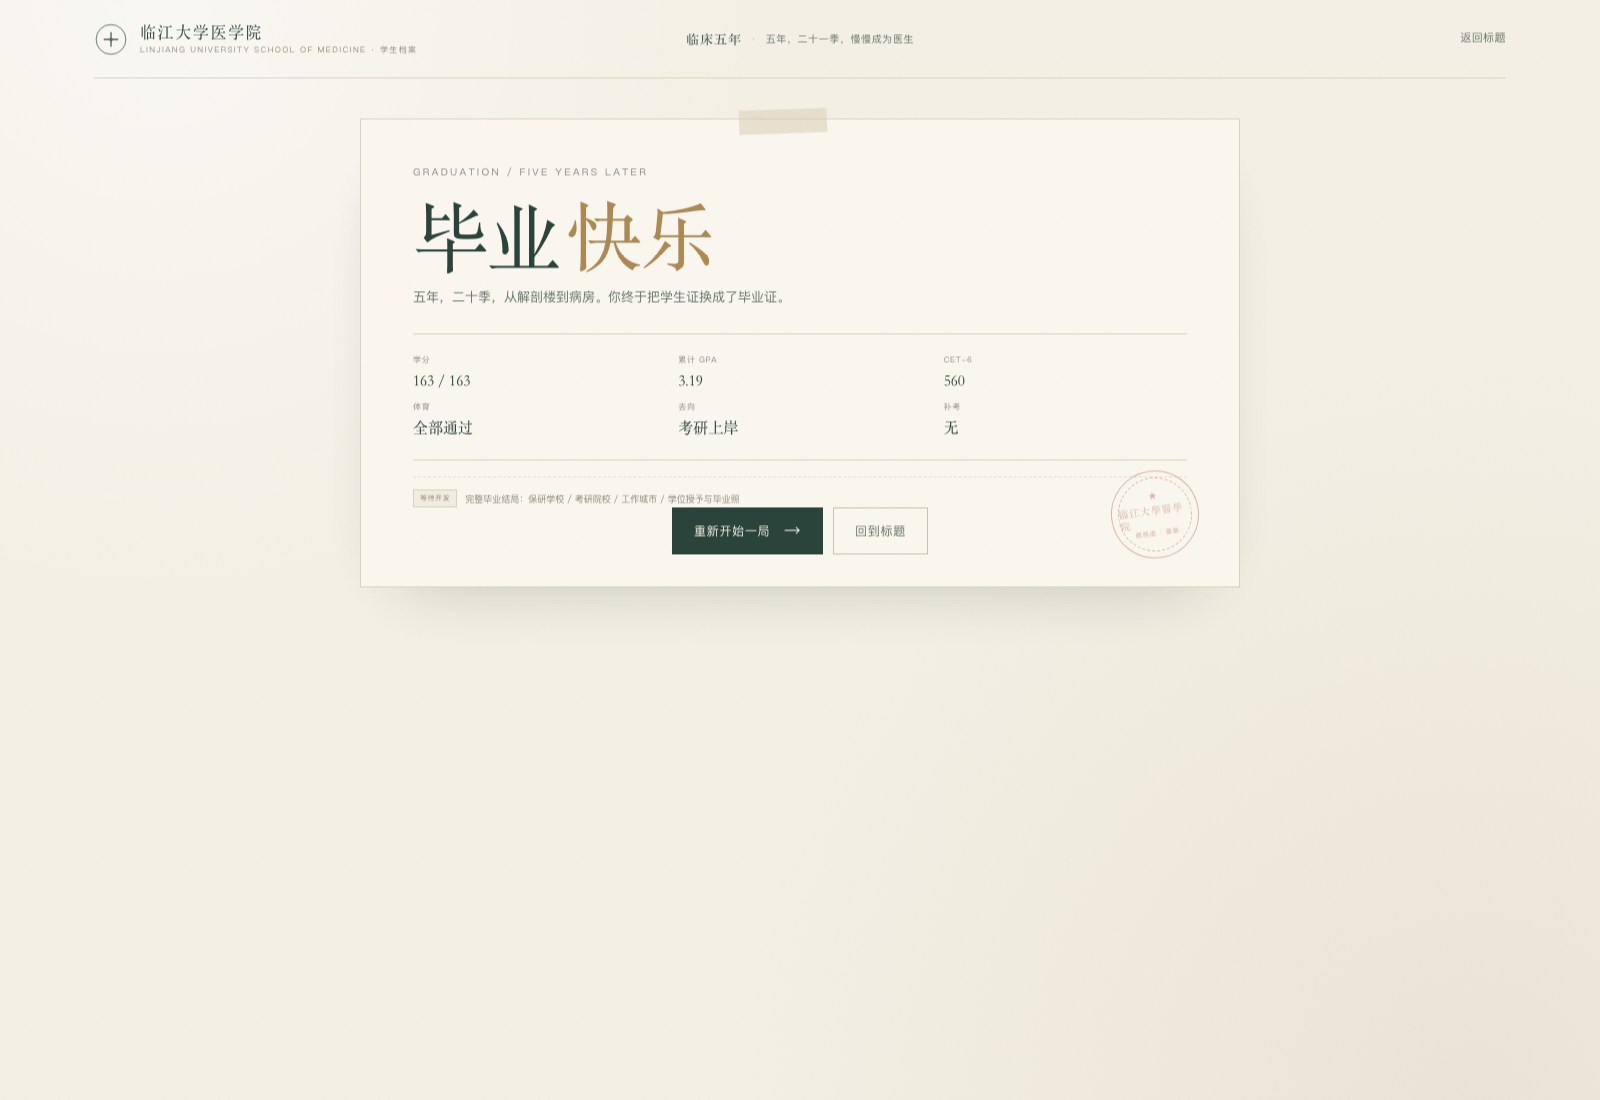
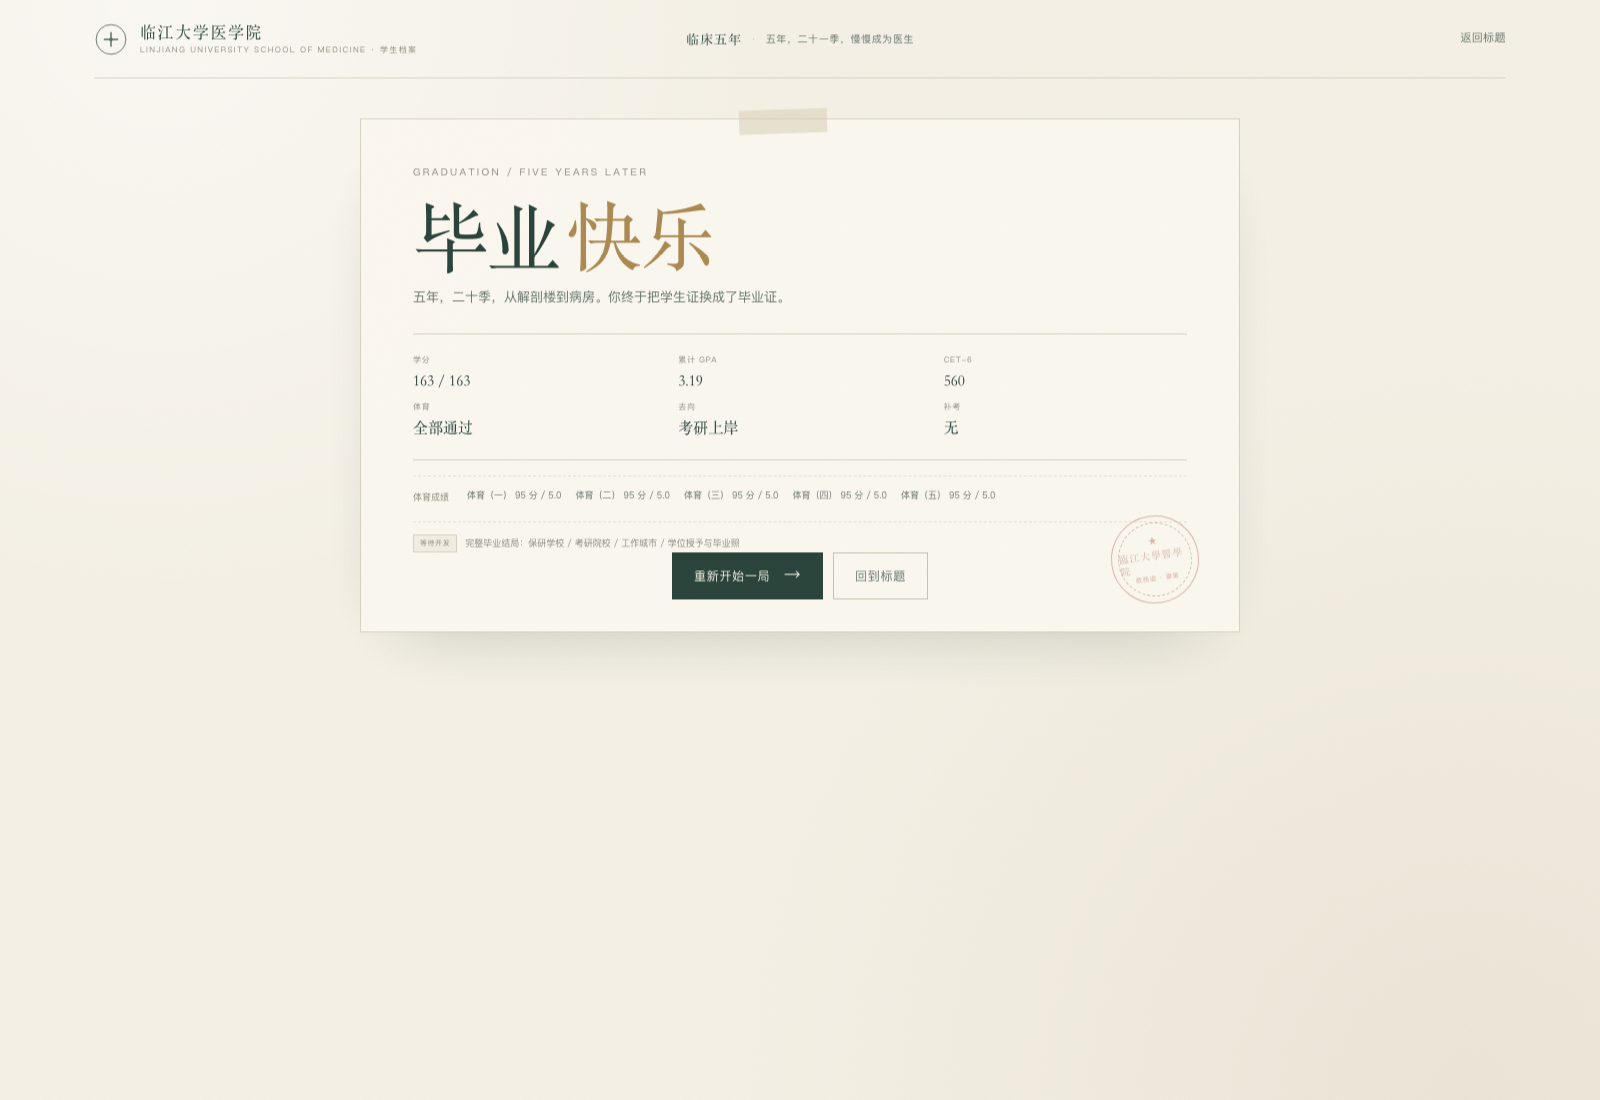
feat: tune growth, PE and clinical CET timeline

Changed region(s): [[0.25, 0.4327, 0.75, 0.5564]]

diff --git a/src/App.tsx b/src/App.tsx
@@ -361,7 +361,6 @@ function RealApp() {
 
     const shouldPrepare = game.week >= 3
     const isCetEvent =
-      game.seasonIndex < 12 &&
       game.season.seasonLabel.endsWith('夏') &&
       game.week === 2 &&
       !game.cetEventDone
@@ -519,8 +518,51 @@ function RealApp() {
     commit({ ...game, cetEventDone: true, screen: 'week' }, 'week')
   }
 
+  const finalizeGraduation = (base: GameState) => {
+    const failedPe = base.peResults.filter((item) => !item.passed)
+    let peMakeupPassed = base.peMakeupPassed
+    let peMakeupScore = base.peMakeupScore
+    let current = base
+    if (failedPe.length > 0) {
+      peMakeupScore = peScoreFor(base.player!.attrs.constitution)
+      peMakeupPassed = peMakeupScore >= 60
+      if (peMakeupPassed) {
+        const gpa = peGpaFor(peMakeupScore)
+        current = {
+          ...base,
+          cumulativeCredits: base.cumulativeCredits + failedPe.length * 2,
+          cumulativePoints: base.cumulativePoints + failedPe.length * 2 * gpa,
+        }
+      }
+    }
+    commit(
+      { ...current, peMakeupPassed, peMakeupScore, screen: 'graduation' },
+      'graduation',
+    )
+  }
+
+  const withCetResults = (base: GameState): GameState => {
+    const tookCet4 = base.cet4Registered
+    const tookCet6 = base.cet6Registered
+    let cet4Score = base.cet4Score
+    let cet6Score = base.cet6Score
+    if (tookCet4) cet4Score = cetScore('cet4', base.english, base.player!.attrs.memory)
+    if (tookCet6) cet6Score = cetScore('cet6', base.english, base.player!.attrs.memory)
+    return {
+      ...base,
+      cet4Score,
+      cet6Score,
+      cet4Registered: false,
+      cet6Registered: false,
+    }
+  }
+
   const handleCetResultContinue = () => {
     if (!game) return
+    if (game.seasonIndex === 19) {
+      finalizeGraduation(game)
+      return
+    }
     commit({ ...game, screen: 'yearend', vacation: null }, 'yearend')
   }
 
@@ -592,33 +634,23 @@ function RealApp() {
 
     // 大三临床前、大四夏：学年结算（大四无暑假）
     if (index === 11 || index === 15) {
+      if (index === 15 && (current.cet4Registered || current.cet6Registered)) {
+        current = withCetResults(current)
+        commit({ ...current, screen: 'cetResult' }, 'cetResult')
+        return
+      }
       commit({ ...current, screen: 'yearend', vacation: null }, 'yearend')
       return
     }
 
     // 大五夏：毕业结算 + 毕业生体育补考
     if (index === 19) {
-      const failedPe = current.peResults.filter((item) => !item.passed)
-      let peMakeupPassed = current.peMakeupPassed
-      let peMakeupScore = current.peMakeupScore
-      if (failedPe.length > 0) {
-        peMakeupScore = peScoreFor(current.player!.attrs.constitution)
-        peMakeupPassed = peMakeupScore >= 60
-        if (peMakeupPassed) {
-          const gpa = peGpaFor(peMakeupScore)
-          current = {
-            ...current,
-            cumulativeCredits:
-              current.cumulativeCredits + failedPe.length * 2,
-            cumulativePoints:
-              current.cumulativePoints + failedPe.length * 2 * gpa,
-          }
-        }
+      if (current.cet4Registered || current.cet6Registered) {
+        current = withCetResults(current)
+        commit({ ...current, screen: 'cetResult' }, 'cetResult')
+        return
       }
-      commit(
-        { ...current, peMakeupPassed, peMakeupScore, screen: 'graduation' },
-        'graduation',
-      )
+      finalizeGraduation(current)
       return
     }
 

diff --git a/src/data.ts b/src/data.ts
@@ -13,6 +13,8 @@ export const SCHOOL_EN = 'LINJIANG UNIVERSITY SCHOOL OF MEDICINE'
 export const GAME_TITLE = '临床五年'
 export const GAME_SUBTITLE = '五年，二十一季，慢慢成为医生。'
 
+export const PE_NAMES = ['体育（一）', '体育（二）', '体育（三）', '体育（四）', '体育（五）']
+
 export const CET = {
   total: 750,
   pass4: 425,
@@ -193,9 +195,9 @@ export const HABITS: HabitDef[] = [
     name: '健身',
     en: 'FIT',
     desc: '每周三次，操场或健身房。',
-    effect: '体质成长 +17 / 周 · 压力 -1',
+    effect: '体质成长 +18 / 周 · 压力 -1',
     growth: 'constitution',
-    growthAmount: 17,
+    growthAmount: 18,
     stress: -1,
   },
   {
@@ -375,9 +377,9 @@ export const ACTIONS: ActionDef[] = [
     energy: -3,
     stress: -5,
     money: 0,
-    effectText: '体质成长 +35 · 精力 -3 · 压力 -5',
+    effectText: '体质成长 +42 · 精力 -3 · 压力 -5',
     growth: 'constitution',
-    growthAmount: 35,
+    growthAmount: 42,
   },
   {
     id: 'english',

diff --git a/src/screens/Postgrad.tsx b/src/screens/Postgrad.tsx
@@ -1,3 +1,4 @@
+import { PE_NAMES } from '../data'
 import {
   GRADUATION_CREDITS,
   KAOYAN_PASS,
@@ -358,6 +359,19 @@ export function GraduationScreen({
                 <strong>{state.pendingMakeups.length === 0 ? '无' : `${state.pendingMakeups.length} 门未过`}</strong>
               </div>
             </div>
+
+            {state.peResults.length > 0 && (
+              <div className="pe-transcript">
+                <span>体育成绩</span>
+                <div>
+                  {state.peResults.map((item) => (
+                    <span key={item.year}>
+                      {PE_NAMES[item.year - 1]} {item.score} 分 / {item.gpa.toFixed(1)}
+                    </span>
+                  ))}
+                </div>
+              </div>
+            )}
 
             {!graduated && (
               <div className="graduation-reasons">

diff --git a/src/styles.css b/src/styles.css
@@ -3436,6 +3436,32 @@ input:focus-visible {
   background: #f3eee2;
 }
 
+.pe-transcript {
+  display: flex;
+  align-items: flex-start;
+  gap: 18px;
+  margin-top: 15px;
+  padding-top: 12px;
+  border-top: 1px dashed var(--line-soft);
+  font-size: 9px;
+  color: var(--muted);
+}
+
+.pe-transcript > span {
+  flex: none;
+  padding-top: 2px;
+}
+
+.pe-transcript > div {
+  display: flex;
+  flex-wrap: wrap;
+  gap: 7px 14px;
+}
+
+.pe-transcript > div span {
+  color: var(--ink-3);
+}
+
 .graduation-reasons {
   margin: 16px 0 0;
   padding: 12px 14px;

diff --git a/README.md b/README.md
@@ -48,16 +48,16 @@ npm run preview
 - **周循环**：每学期 3 个行动周 + 1 个考前复习周；每周选择 2 个行动；泡图书馆（精力 -10 / 压力 +10）可重复选两次
 - **选择预览**：选行动时显示结算后的精力 / 压力 / 生活费 / 综测 / 英语 / 科研 / 各科准备度；进度条中较浅或斜线部分表示尚未发生的预计变化，正式结算前会再确认
 - **行动**：泡图书馆、科研、社团、休息、社交、兼职、运动、英语等；部分行动有前置条件；纯粹的休息为精力 +15 / 压力 -15
-- **体质成长**：健身习惯 +17 / 周；每周运动 +35；体质 5 的玩家只靠健身一学年到 8，只靠每周运动一学年到 10
+- **体质成长**：健身习惯 +18 / 周；每周运动 +42；体质 5 的玩家只靠健身一学年到 8，只靠每周运动一学年到 10
 - **考试**：课程难度（记忆力/悟性 低/中/高）→ K 匹配系数 → 每周被动准备度 → 考前复习 → 卷面分 → 5 分制绩点；大考支持两门课，复习时可主攻 / 均衡 / 历年卷+zsy 笔记 / 休息；全力复习精力 -20、压力 +10；历年卷精力 -10、压力 +5；休息精力 +20、压力 +5
 - **考试周状态**：考前复习页右侧显示精力 / 压力 / 生活费 / 综合测评 / 英语 / 科研，以及计划和习惯；加餐使用后数值立即更新
 - **考试周额外操作（不占行动次数、不可撤销）**：喝咖啡（生活费 -10、精力 +10、压力 +2，每场限一次）；刷夜（精力 -10、体质成长 -10、压力 +10、所有课程准备度 +15，但本次成绩下调 5%，每场限一次）
-- **四六级事件**：大一夏、大二夏第 3 周（考试周前一周）弹出报名；CET-4 / CET-6 总分 750、通过线 425，CET-6 ≥ 550 才算毕业英语合格；成绩按英语进度和记忆力赋分，英语 40/75/100 分别保证 CET-4 425 / CET-6 425 / CET-6 550 的下限
+- **四六级事件**：每年夏学期第 3 周（考试周前一周）弹出报名；CET-4 / CET-6 总分 750、通过线 425，CET-6 ≥ 550 才算毕业英语合格；成绩按英语进度和记忆力赋分，英语 40/75/100 分别保证 CET-4 425 / CET-6 425 / CET-6 550 的下限
 - **大一全流程**：秋（大学数学）→ 冬（有机化学 + 普通化学）→ 寒假 → 春（系统解剖学）→ 夏（生物化学 + 病原微生物）→ 暑假 → 大一学年结算
 - **大二**：生理学 + 医学免疫学 → 病理学 + 药理学 → 寒假 → 病理生理学 + 医学统计学 → 预防医学 + 医学心理学 → 暑假 → 大二学年结算
 - **大三**：外科学总论 + 医学影像学 → 诊断学 → 寒假 → 临床药理学 + 循证医学 → 临床前学期（临床前综合考核，5 学分）→ 大三学年结算；大三夏天会被临床前学期替代，没有暑假
-- **大四**：内科见习 / 外科见习 / 妇产见习 / 儿科见习 + 麻醉、急诊、皮肤、全科、精神轮转；大四春选择毕业去向（保研 / 双线 / 就业）；无假期
-- **大五**：内外妇儿实习 + 眼科、耳鼻喉、康复、社区、医患沟通；大五秋公布推免结果，大五冬考研初试，大五春考研结果；无假期
+- **大四**：内科见习 / 外科见习 / 妇产见习 / 儿科见习 + 麻醉、急诊、皮肤、全科、精神轮转；大四春选择毕业去向（保研 / 双线 / 就业）；无假期，夏学期仍有四六级机会
+- **大五**：内外妇儿实习 + 眼科、耳鼻喉、康复、社区、医患沟通；大五秋公布推免结果，大五冬考研初试，大五春考研结果；无假期，夏学期仍有四六级机会
 - **学分**：前三年 83 + 临床两年 70 + 体育 10 = **163**；体育成绩按体质结算，体育共 5 门（每门 2 学分）
 - **补考**：挂科课程会在下一学期周循环和考试周作为“补考”课程出现；补考通过后按原绩点与补考绩点平均、向下取整到 1 位小数，学分只算一次
 - **毕业条件**：163 学分、CET-6 ≥ 550、补考全部通过、体育毕业补考通过；显示毕业或延毕，完整结局后续接入
